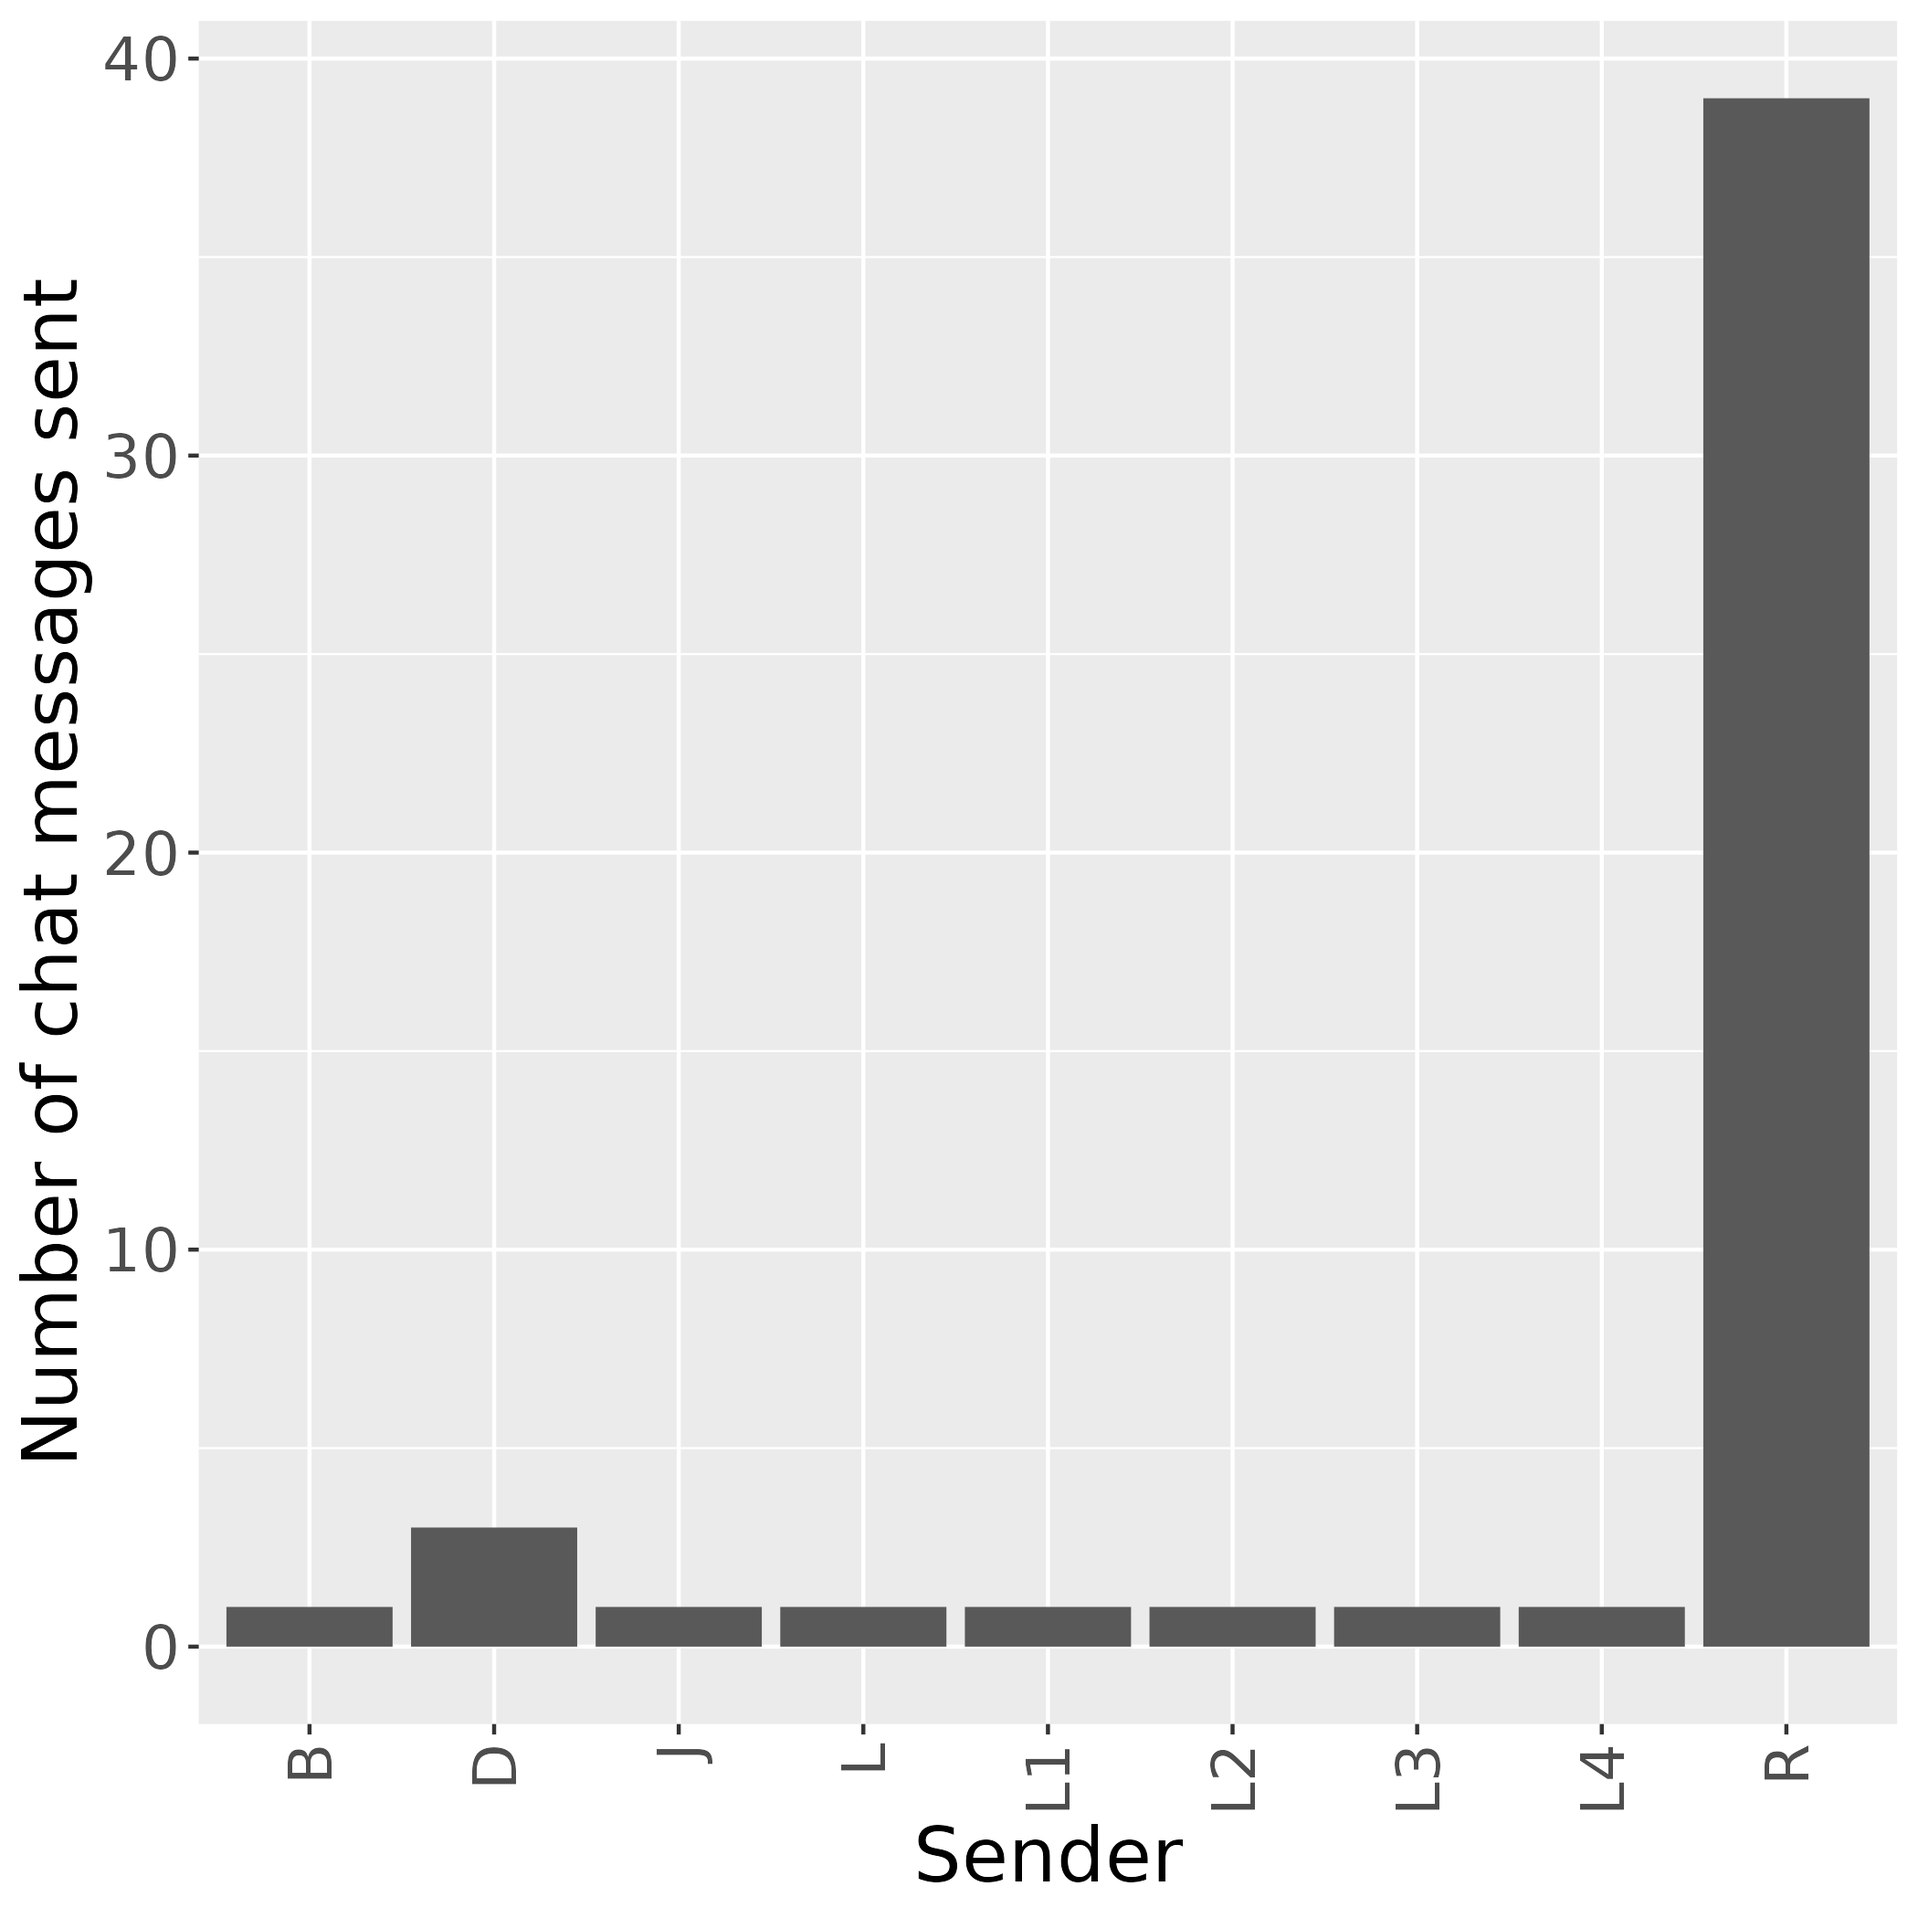
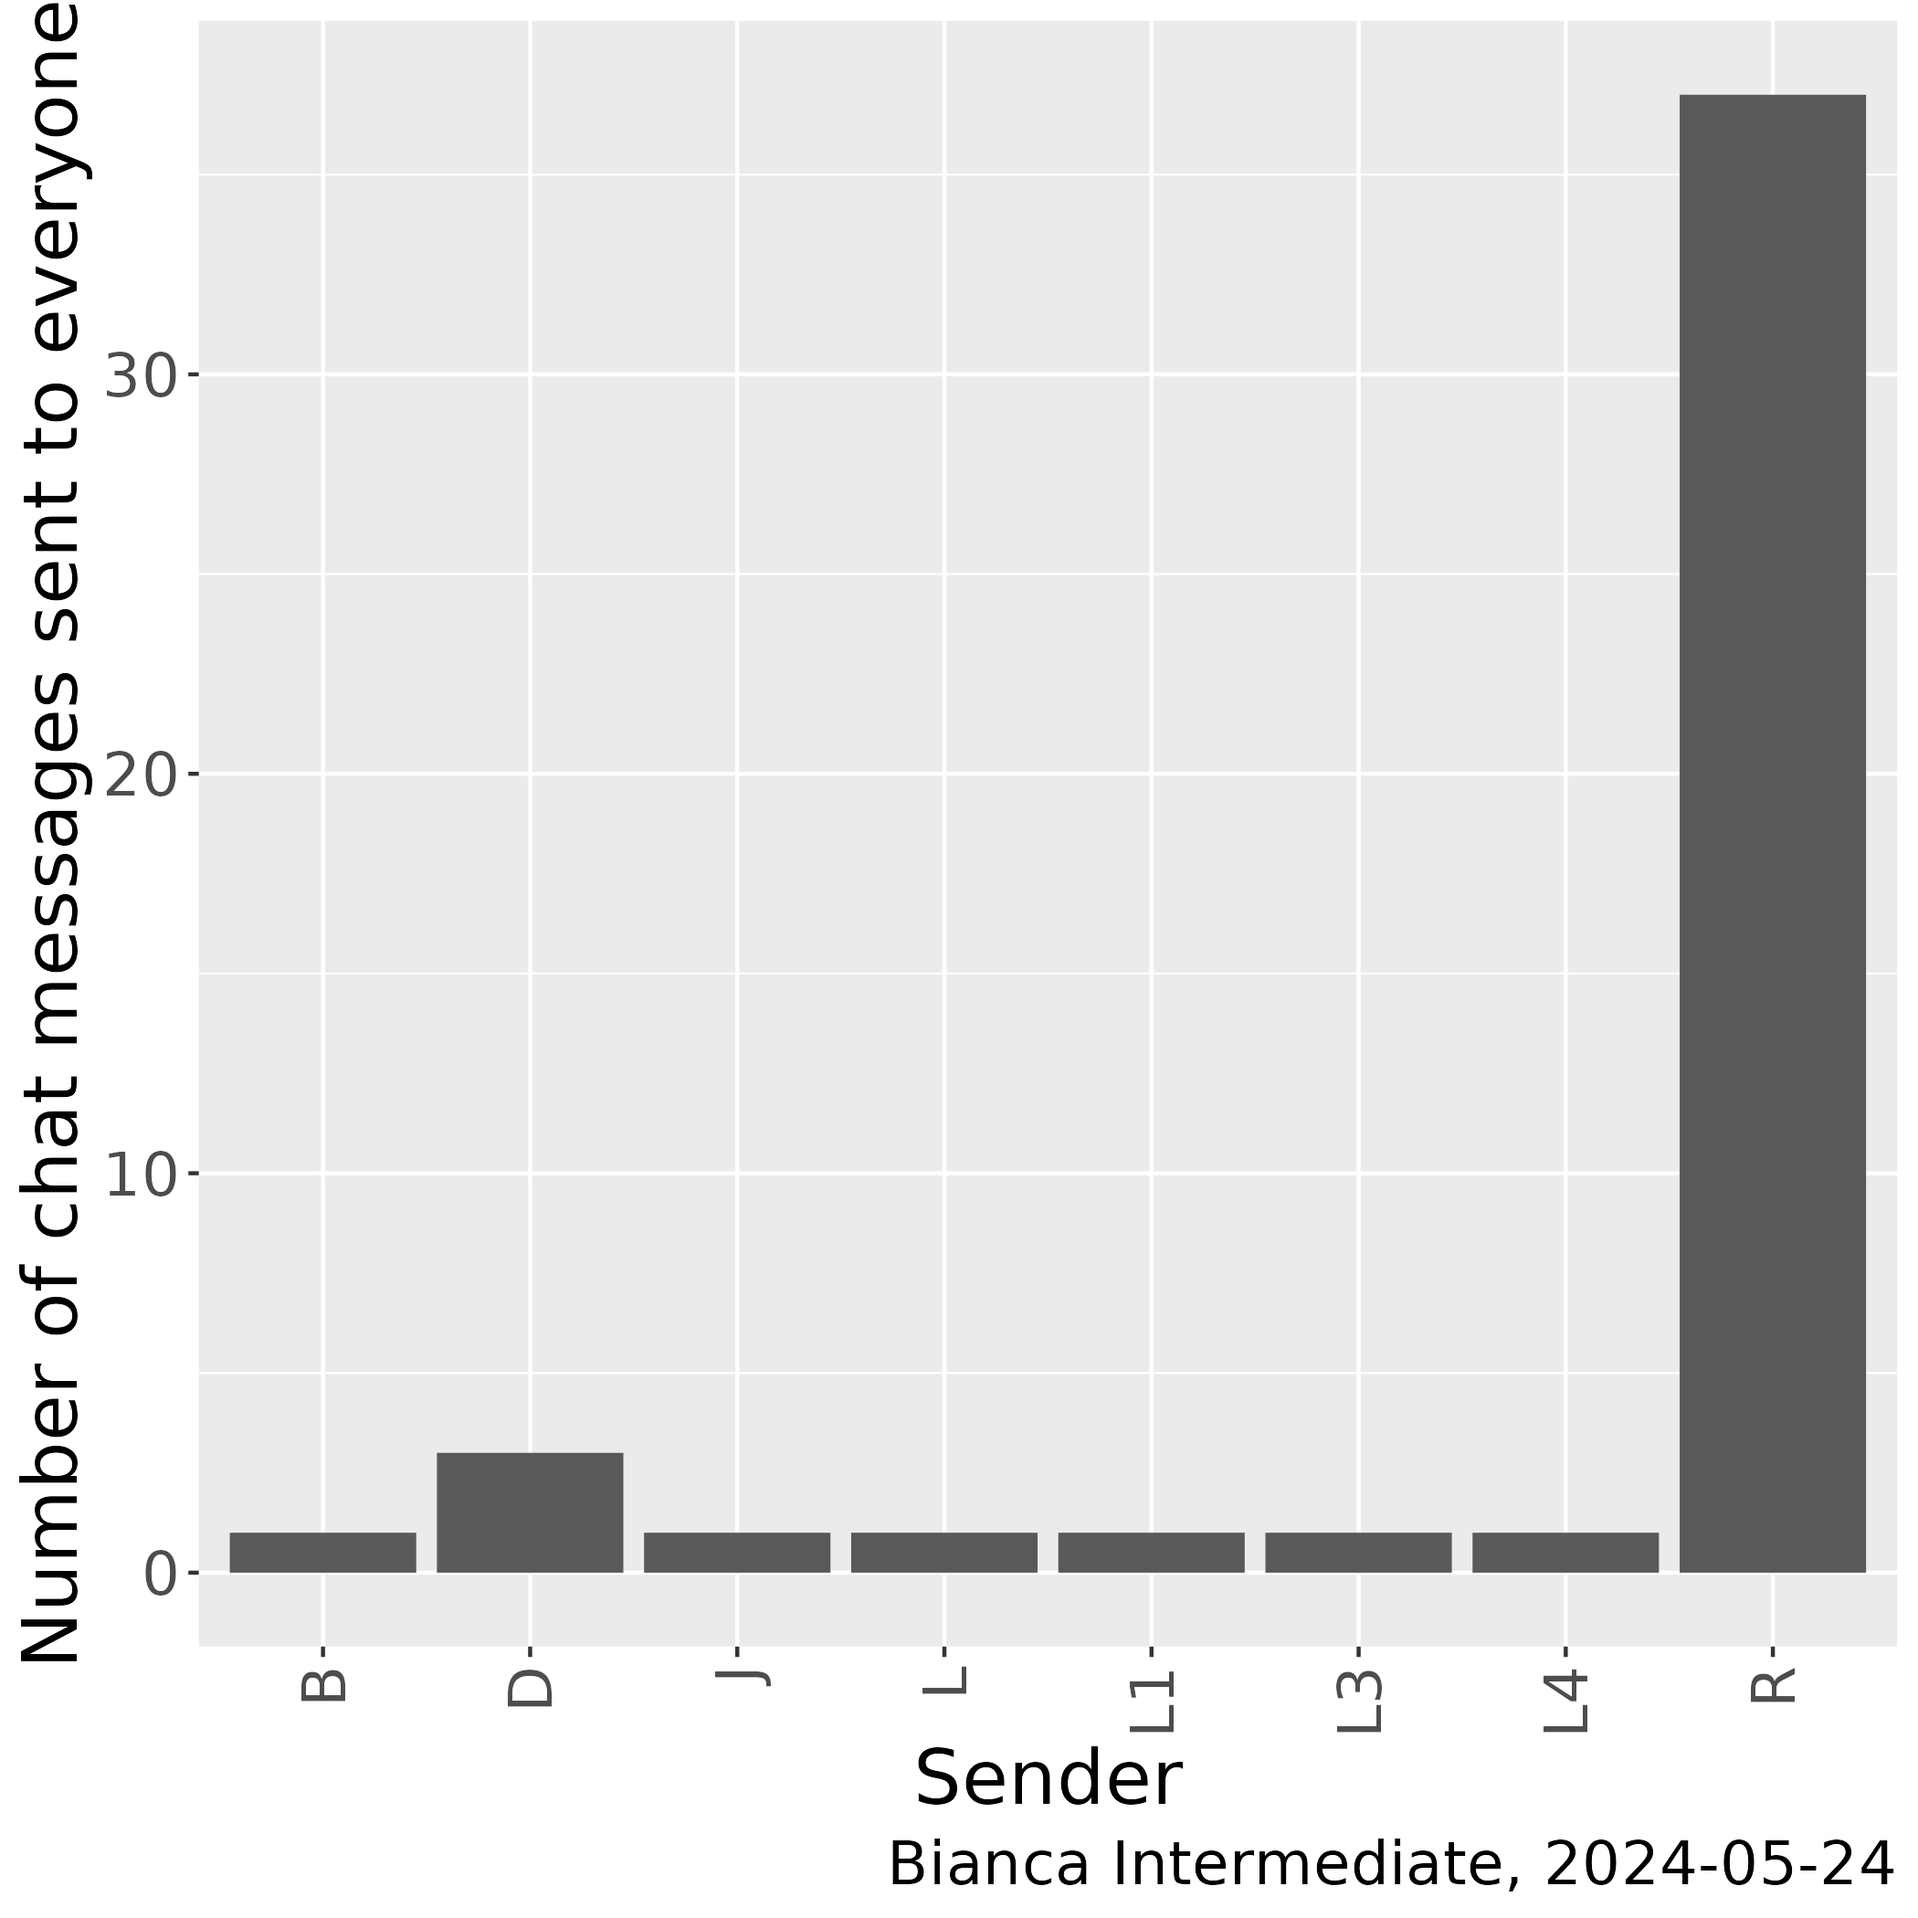
Analyse chat

diff --git a/reflections/20240524/20240524_richel.md b/reflections/20240524/20240524_richel.md
@@ -220,6 +220,8 @@ One evaluation result stated at 'Other':
 
 This should be celebrated more I think.
 
-Taking a look at [meeting_saved_chat.txt](meeting_saved_chat.txt),
-one can see that 
+Taking a look at [meeting_saved_chat.txt](meeting_saved_chat.txt) ...
 
+![Number of messages sent by sender](20240524_n_messages_per_sender.png)
+
+one can see I sent 
